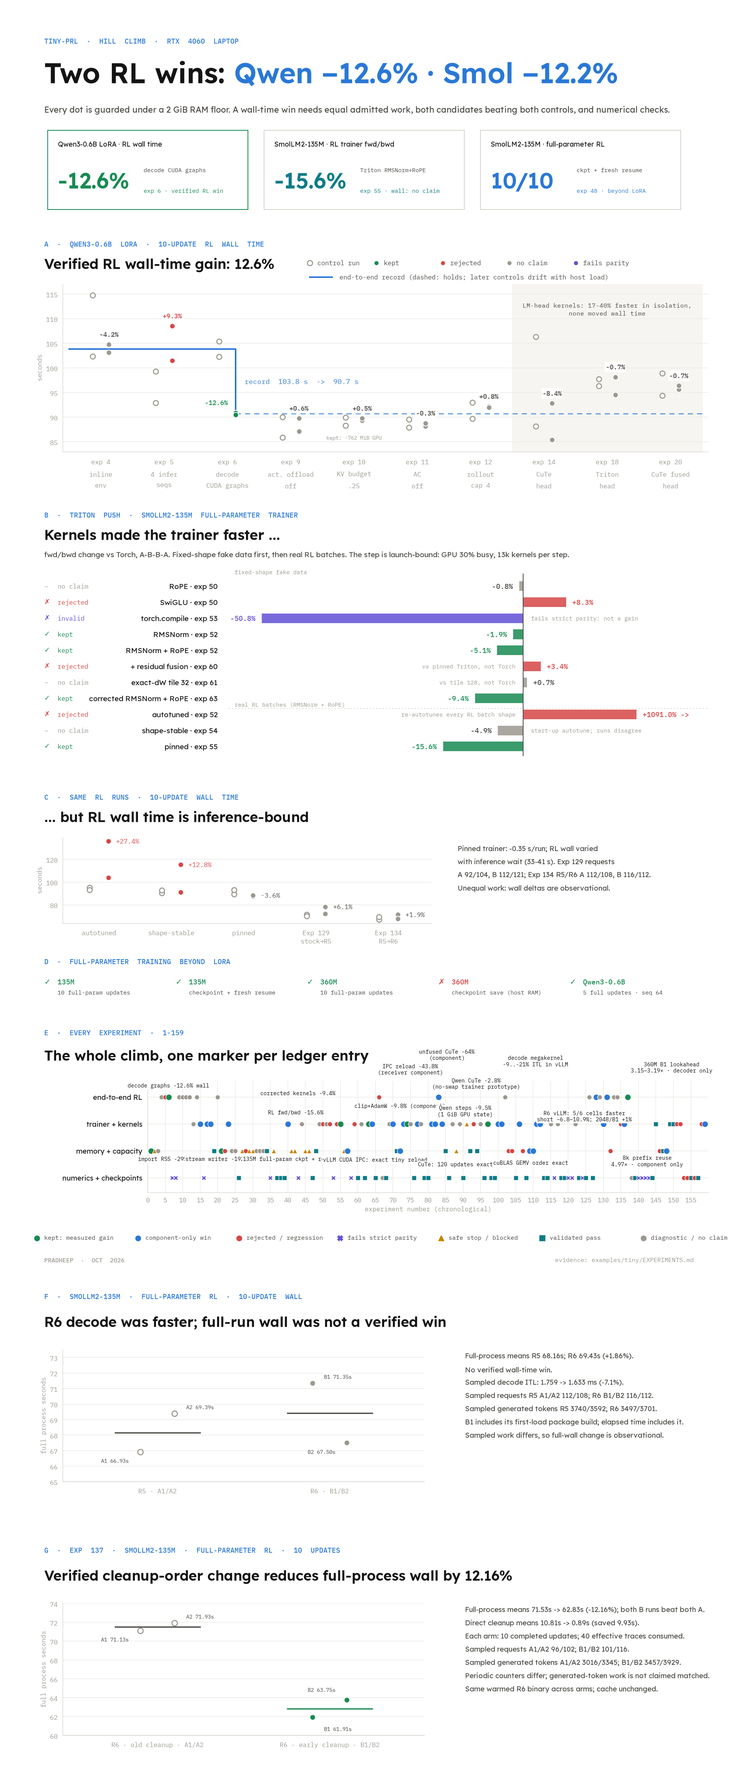
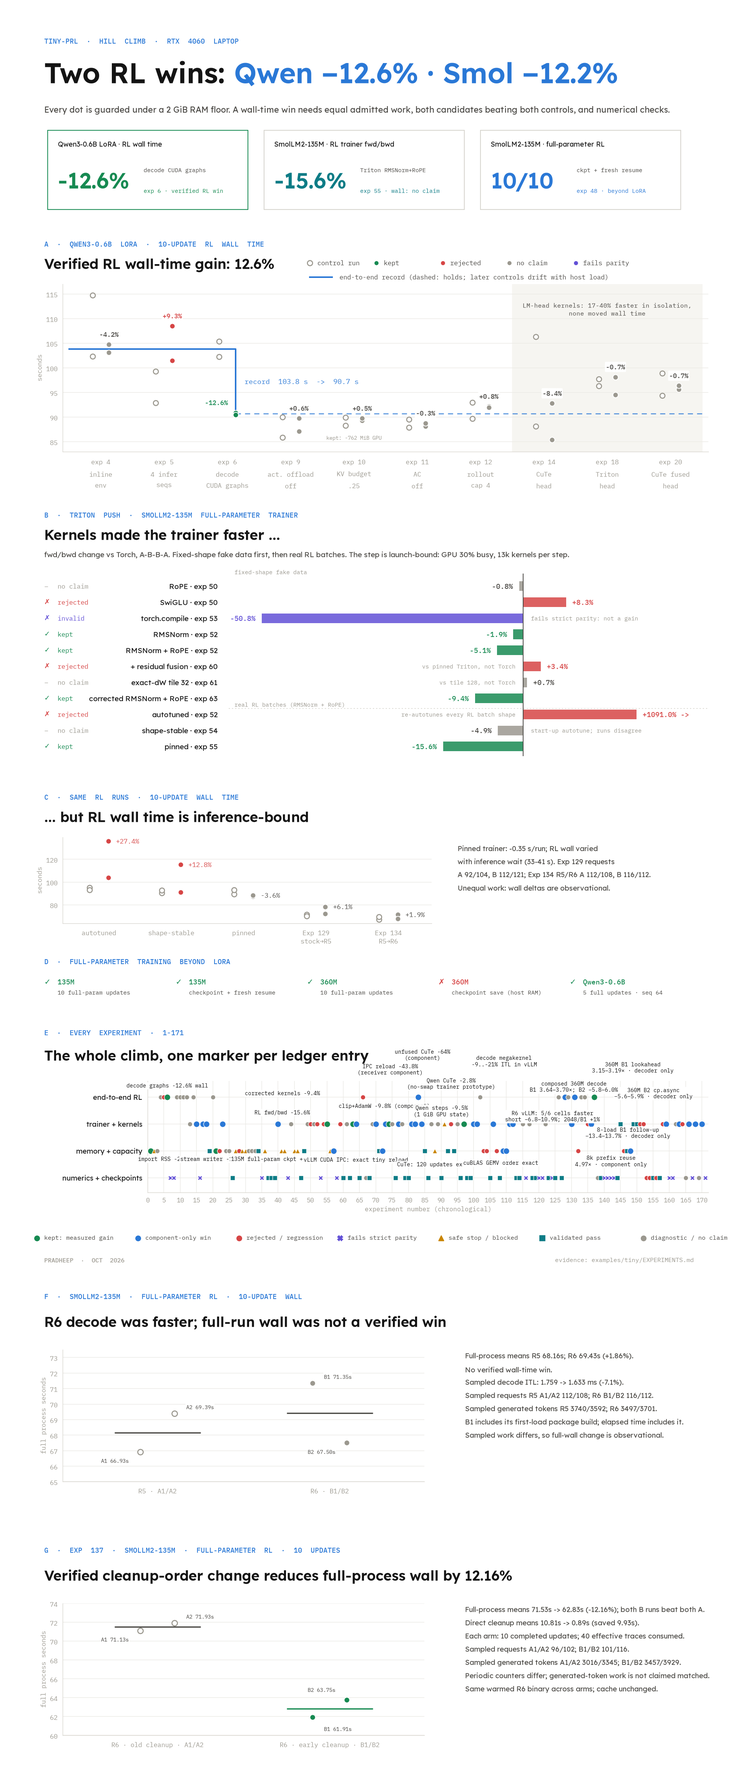
docs: checkpoint decoder gains and 45-case parity

Changed region(s): [[0.2812, 0.5922, 0.9062, 0.6857]]

diff --git a/tools/plot_tiny_hillclimb.py b/tools/plot_tiny_hillclimb.py
@@ -255,6 +255,18 @@ EXPERIMENTS = {
     157: (NUM, "validated"),
     158: (TRAIN, "rejected"),
     159: (TRAIN, "component"),
+    160: (NUM, "parity"),
+    161: (NUM, "parity"),
+    162: (TRAIN, "none"),
+    163: (TRAIN, "component"),
+    164: (TRAIN, "rejected"),
+    165: (NUM, "none"),
+    166: (TRAIN, "component"),
+    167: (NUM, "parity"),
+    168: (TRAIN, "component"),
+    169: (NUM, "none"),
+    170: (TRAIN, "component"),
+    171: (NUM, "parity"),
 }
 # Callout text with (dx, dy) offsets in points, staggered so neighbours do not collide.
 CALLOUTS = {
@@ -276,6 +288,9 @@ CALLOUTS = {
     131: ("R6 vLLM: 5/6 cells faster\nshort −6.8–10.9%; 2048/B1 +1%", (-35, -38)),
     148: ("8k prefix reuse\n4.97× · component only", (-30, -24)),
     159: ("360M B1 lookahead\n3.15–3.19× · decoder only", (-52, 80)),
+    163: ("360M B2 cp.async\n−5.6–5.9% · decoder only", (-40, 40)),
+    166: ("8-load B1 follow-up\n−13.4–13.7% · decoder only", (-95, -22)),
+    170: ("composed 360M decode\nB1 3.64–3.70×; B2 −5.8–6.0%", (-200, 50)),
 }
 
 MILESTONES = [

diff --git a/examples/tiny/EXPERIMENTS.md b/examples/tiny/EXPERIMENTS.md
@@ -1378,3 +1378,76 @@ A direct decoder CUDA-event test uses four seed-17 B1/B2 context-32/128 fixtures
 Telemetry snapshots start at 2280 MHz and reach 2625 MHz; the later B1 blocks retain the gain at the higher clock. This is a measured decoder-component gain against R12, not a vLLM serving or RL wall-time gain, and does not establish that R13 beats stock. The guard returned 0 in 15.07 s with zero job swap, 1401 MiB GPU peak, and minimum available RAM 10,777,522,176 bytes.
 
[1 lines of base64/hex data omitted]
+
+## Experiment 160: corrected PV task mapping reaches 42/46 cases
+
+R14b changes the R12 PV schedule to eight warp groups for long contexts and homogeneous B2/K512. The first R14 implementation left six of B1's 30 PV tasks unwritten when only one task group fit each of 24 CTAs; it produced layer-0 and greedy-token regressions on both B1 long cases. R14b preserves that failed version separately and adds uniform task iterations, with unconditional CTA barriers and complete task ownership. This is a mapping fix, not a relaxed numerical gate.
+
+R14b passes the original 30 held-out and four initial cases, plus 8/12 wider seed-777 cases: 42/46 total. Both B1 long cases now pass. Remaining failures are B1/context255 at post-block layer22 and B2/context511/2048/8000 at layers8/11/22. Greedy IDs match in every case, but the four cases still fail strict internal gates. The wide guard returns numerical code1 after 49.51 s, with no resource stop, zero job swap, 4323 MiB GPU peak, and minimum available RAM 9,797,070,848 bytes. An earlier wrong-ABI harness attempt performed no numerical case and is excluded. No speed or RL claim follows.
+
[1 lines of base64/hex data omitted]
+
+## Experiment 161: native-shaped QK WMMA reaches 43/46 cases
+
+R15b builds on R14b and uses warp-private BF16 WMMA QK only for B1/K256 and homogeneous B2/K512, rounding raw QK to BF16 before scaling. A separate primitive probe matches saved native raw/scaled QK exactly on the two causal captures; fresh Torch profiling identifies native CUTLASS BF16 WMMA with 32-thread blocks. The complete decoder retains all 34 original passes and increases the wider set to 9/12: all B1 cases pass, for 43/46 total. The remaining B2/context511/2048/8000 failures first appear at post-block layers8/11/22; greedy IDs match, while internal gates still fail.
+
[1 lines of base64/hex data omitted]
+
+## Experiment 162: serving traces attribute the R9 regression to GPU work
+
+R5 preserves R4's route/configuration checks and captures one warmed 16-token request per prompt32/128 and B1/B2 shape, separately for stock and R9. Candidate traces contain 15 megakernel launches per request: B1 median kernel durations 16.981/17.096 ms, totaling 254.7/256.4 ms; B2 medians 8.683/8.875 ms, totaling 130.2/133.1 ms. These dominate request annotation spans of 276.6/277.7 ms and 150.7/153.8 ms respectively. The trace supports prioritizing decoder work rather than treating the regression as mainly Python scheduling overhead.
+
+All eight traces and both guards complete with zero job swap. Profiling overhead contaminates these request times: Experiment158 remains the unprofiled serving pilot. The interval without recorded GPU activity is a union-of-intervals visibility metric, not pure CPU cost. Host `cudaGraphLaunch` duration is not device replay time. Hardware performance counters remain restricted; these traces do not establish DRAM bandwidth, scoreboard stalls, or barrier-stall causality. Evidence: `outputs/megakernel-20261025/validation-operator-r1/reports/r5-profile-r1/summary.json` and `decode-baseline-r5/profiles-r5-{stock,candidate}/profile-summary.json`. No new speed or RL-wall-time gain is claimed.
+
+## Experiment 163: SM89 cp.async improves B2 decoder time
+
+R16 builds on R13 and stages B2 projection weights into two warp-private shared-memory tiles with direct `cp.async.ca.shared.global` PTX. The next weight copy overlaps current A-tile/MMA work, preserving K16 accumulation order and BF16 boundaries. B1 is unchanged. The original 34 cases pass and the wider set remains 6/12; a programmatic comparison confirms exactly the same pass set as R13. No numerical gate changed.
+
+Three interleaved ABBA/BAAB blocks with 20 CUDA-event samples per arm measured B2/context32 8.478→7.981 ms (−5.86%) and B2/context128 8.718→8.228 ms (−5.63%), using medians of the six reported upper-median arm statistics. Both candidate arm medians beat both controls in every B2 block. B1 controls are neutral. All four timing fixtures have exact hidden and all 32 K/V layers against native and cross-candidate. The guard completes in 12.33 s with zero swap,1401 MiB GPU peak and minimum available RAM 7,835,811,840 bytes. This is a decoder-component gain, with serving and RL gains unestablished. Evidence: `outputs/megakernel-20261025/r16-direct-bench-r1/results-r1.json`, `validation-operator-r1/reports/r16-direct-bench-r1/`, and `reports/r13-r16-passset-comparison.json`.
+
+## Experiment 164: R13 serving recovers B1 latency but still trails stock
+
+A private in-process R13 pilot preloads the exact validated ABI28 library into the wrapper without changing canonical package files. Same-process worker route, closure/module identity, source/include/library hashes, and nonzero backend decode count are checked. Stock and candidate use the same new harness, three warmups and seven repeats per shape. Request-wall candidate/stock ratios are 1.357/2.178/1.379/2.151 for prompt32/B1,32/B2,128/B1,128/B2. Scheduler-inclusive intertoken medians are 5.895/9.156/6.021/9.367 ms versus stock4.199/3.939/4.204/3.969 ms. These are separate pilot sessions, not ABBA verification.
+
+All28 paired greedy sequences match; exact logprob hashes match in none. Top-five matched-prefix maximum logprob deltas remain 0.2195/0.2498/0.3725/0.3686, and some top-five sets differ. Both guards complete with zero swap and2065 MiB GPU peak. R13 is not accepted as a stock-serving speedup or a probability/quality result. The earlier direct R13/R12 B1 gain is a separate component result. Evidence: `outputs/megakernel-20261025/validation-operator-r1/reports/r13-serving-pilot-r1.json` and `decode-baseline-r13-inproc-pilot/results/{stock,r13}.json`.
+
+## Experiment 165: native vLLM RoPE uses a different rounding boundary
+
+A guarded native-op probe compares the installed vLLM rotary op against four arithmetic formulas on deterministic synthetic BF16 Q/K, batches 1/2 and positions 32/128/255/511/2048, with identical BF16 cos/sin cache values. The explicit HF-style BF16 product-then-add formula differs in 3548/14400 query and1181/4800 key elements. Separate FP32 products/add with final BF16 rounding, and both tested addcmul operand orders, match native exactly. The op receives the same flattened 2D layout used by the serving path.
+
+This establishes an arithmetic difference on synthetic inputs; it does not prove the cause or size of full-serving probability drift. Actual serving-input capture is a separate pending check. No decoder math, reference target, or acceptance gate changes. Evidence: `outputs/megakernel-20261025/decode360-rope-rounding-probe-r1/results/native-vllm-rope.json` and `validation-operator-r1/reports/rope-rounding-probe-r1.json`.
+
+## Experiment 166: eight-load B1 lookahead improves another 13.4–13.7%
+
+R17 changes only R13's four-weight lookahead to eight explicit scalar loads, retaining ordered FP32 RN arithmetic and scalar tails. The include and B2 path remain unchanged. Original 34 cases pass; wider validation remains 6/12 with the identical programmatic pass set. Three interleaved ABBA/BAAB blocks with 20 samples/arm measure B1/context32 5.297→4.569 ms (−13.74%) and B1/context128 5.386→4.662 ms (−13.45%) using medians of six reported upper-median arm statistics. Both candidate arm medians beat both controls in every B1 block. B2 controls are neutral.
+
+All four native/cross-candidate hidden and all 32 K/V comparisons are exact. The guard completes in 12.06 s with zero job swap,1401 MiB GPU peak and minimum available RAM approximately 8.17 GB. This is a direct decoder gain against R13; vLLM and RL gains remain unverified. Evidence: `outputs/megakernel-20261025/r17-direct-bench-r1/results-r1.json`, `validation-operator-r1/reports/r17-direct-bench-r1/`, and `reports/r13-r17-passset-comparison.json`.
+
+## Experiment 167: integrated R18 retains 43/46 numerical passes
+
+R18 combines R15b's attention arithmetic/task fixes with R16's four-load B1 projection path and B2 cp.async double buffer. It preserves all 34 original passes and9/12 wide passes. The wide pass set is programmatically identical to R15b, with no additions/regressions; all B1 cases pass. The three remaining B2 contexts 511/2048/8000 still fail at post-block layers8/11/22 despite matching greedy IDs. Registers are 142/139 per thread for B1/B2 with zero spills. This validates the integration on43/46 cases; component timings from separate branches do not establish R18 speed, serving, or RL gains. R17's eight-load change is excluded. Evidence: `outputs/megakernel-20261025/validation-operator-r1/reports/r18-{heldout30,initial4,wide12}-r1/`, `reports/r15b-r18-passset-comparison.json`, and `decode-360-cuda-r18/provenance.json`.
+
+## Experiment 168: balanced B2 mapping yields a small repeated gain
+
+R19 changes one B2 global-warp expression from R16 to `warp*24+blockIdx.x`, preserving all 192 IDs and per-output arithmetic orders. The QKV100, O/down60 and gate/up160 tile queues span all 24 CTAs instead of 13/8/20. Original fixtures pass 34/34; wider fixtures remain 6/12 with the same programmatic pass set as R16. Two independent direct decoder ABBA/BAAB sessions each use three blocks and 20 samples/arm. B2/context32 reductions are 0.3982% and 0.3914%; context128 reductions are 0.3477% and 0.3422%, using medians of six reported upper-median arm statistics. Both candidate arm medians beat both controls in all six blocks for both B2 shapes. B1 is within approximately 0.03%. All four native/cross hidden and all 32 K/V checks are exact in both sessions. Both guards return 0 with zero swap and 1401 MiB GPU peak. This is a small decoder-component result, with no serving or RL gain established. Evidence: `outputs/megakernel-20261025/r19-direct-bench-r1/results-r{1,2}.json`, `validation-operator-r1/reports/r19-direct-root-summary.json`, and `reports/r16-r19-passset-comparison.json`.
+
+## Experiment 169: real serving RoPE confirms the rounding difference
+
+R2 captures actual layer-0 first-decode inputs/outputs from stock vLLM for B1/B2 contexts 32/128, verifying the native custom-op route, BF16 Q/K/cache, positions and same-process worker identity. The rotary object is shared across layers; R1 stopped after capturing 32 calls. R2 scopes its hooks through the unique layer-0 attention module, preserving R1's failed result. On saved tensors, HF-style intermediate BF16 product rounding differs from native by query/key counts 197/960 and 58/320 (B1/32), 394/1920 and 116/640 (B2/32), 232/960 and 80/320 (B1/128), 464/1920 and 160/640 (B2/128). FP32 products/addition with final BF16 rounding matches every native Q/K element in all four captures. This confirms a RoPE arithmetic-contract difference on real serving inputs; it does not prove the sole cause of whole-model probability drift. No decoder arithmetic, reference target or HF gate changed. Eager execution with compilation disabled is a diagnostic setting, not a speed measurement. R2's guard returns 0 in 10.86 s with zero swap, 2063 MiB GPU peak and minimum available RAM 5,785,251,840 bytes. Evidence: `outputs/megakernel-20261025/decode360-serving-rope-r2/results-r2/serving_rope.json`, saved captures and `guard/result.json`.
+
+## Experiment 170: combined R20 speed is measured against R15b
+
+R20 combines R15b attention fixes with eight-load B1 projections, B2 async weight tiles and the balanced B2 global-warp mapping. The original 34 cases pass, and wider validation remains 9/12 with the identical R18 pass set (43/46 total). No arithmetic contract or numerical gate changes. Three interleaved direct decoder ABBA/BAAB blocks use three warmups and 20 samples/arm, with KV restored before every timed call. Medians of six reported upper-median arm statistics are:
+
+| Case | R15b | R20 | Latency reduction |
+| --- | ---: | ---: | ---: |
+| B1/context32 | 16.876 ms | 4.566 ms | 72.94% |
+| B1/context128 | 16.962 ms | 4.657 ms | 72.54% |
+| B2/context32 | 8.463 ms | 7.957 ms | 5.99% |
+| B2/context128 | 8.705 ms | 8.200 ms | 5.80% |
+
+Both R20 placements beat both R15b placements in every block for all four cases. Every native and cross-candidate final hidden plus all 32 layers of K/V is exact (0 ULP). This directly measures the composition: B1 is 3.64–3.70× faster than R15b, with B2 latency down 5.8–6.0%. These are decoder-only component results; serving, probability accuracy and RL-wall-time gains remain unverified for R20. Registers are 148/139 per thread for B1/B2, with zero spills. Guard code0 completes in 14.67 s with zero job swap, 1401 MiB GPU peak and minimum available RAM approximately 5.34 GB. Evidence: `outputs/megakernel-20261025/r20-direct-bench-r1/results-r1.json`, `validation-operator-r1/reports/r20-direct-bench-r1/summary.json`, `reports/r20-validation-summary-r1.json`, and `reports/r18-r20-passset-comparison.json`. Source and compact results are archived in `prime-kernels/research/smollm2_360m_decode/experiments/r20-composed/`.
+
+## Experiment 171: R21 PV order reaches 45/46 fixtures
+
+R21 preserves R20 except the B2 PV schedule for batch maximum sequence above 2048 or homogeneous K512. It uses y8/chunk8, four round-robin accumulators, zero-start ordered FP32 RN local summation and a halves tree over all eight y partials. The schedule matches all six selected native PV captures in the 31,104 schedule/capture R3 probe, including the three current causal failures and prior controls. Full decoder validation passes all 34 original cases and 11/12 wide cases: 45/46 total, adding B2 contexts 511/2048 without regressions. Only B2/context8000 remains, with matching greedy ID and first post-block mismatch at layer 10 while K/V is exact there; first KV mismatch is layer 11. A later layer 15 capture does not identify the cause at layer 10. This is partial correctness progress, with no R21 speed, serving or RL claim. Gates and dtype boundaries remain unchanged. The wide guard completes in 47.68 s with zero job swap, 4323 MiB GPU peak and minimum available RAM approximately 4.86 GB. Evidence: `outputs/megakernel-20261025/validation-operator-r1/reports/r21-validation-summary-r1.json`, `reports/r20-r21-passset-comparison.json`, `decode360-pv-causal-probe-r3/results-r1/gpu-probe.json` and the separate canonical archive `prime-kernels/research/smollm2_360m_decode/experiments/r21-pv-order/`.

diff --git a/examples/tiny/HANDOFF.md b/examples/tiny/HANDOFF.md
@@ -5,7 +5,7 @@ Checkpoint: 2026-10-27. This note captures the current state of the IcePop integ
 ## Repository and environment boundaries
 
 - Prime-RL working repository: `/home/pradheep/tiny-prl/prime-rl`. The published IcePop implementation is commit `c4c7722ec`; the later documentation checkpoint is `b0214cf8f`. Local `upstream/main` is `40babc0833dda27f6c23ab53547dd527e465ae38`. The origin is the personal fork; upstream is PrimeIntellect.
-- Prime-Kernels checkout: `/home/pradheep/tiny-prl/prime-kernels`. Local `main`, `origin/main`, and the Prime-RL submodule are `72bb8c9`. This revision retains the 360M R9 research decoder and separately archives the measured R13 lookahead experiment; GitHub Actions workflows remain removed and the active production kernel remains R6.
+- Prime-Kernels checkout: `/home/pradheep/tiny-prl/prime-kernels`. Local `main`, `origin/main`, and the Prime-RL submodule are `bea15be`. This revision retains the 360M R9 research decoder and separately archives the R13/R16/R17/R19/R20 performance experiments and R15b/R21 accuracy branches; GitHub Actions workflows remain removed and the active production kernel remains R6.
 - The main worktree now contains the opt-in IcePop integration and related compatibility changes. Concurrent research edits include `examples/tiny/EXPERIMENTS.md`, `examples/tiny/hillclimb.png`, and `tools/plot_tiny_hillclimb.py`; preserve them. The primary progress image remains `examples/tiny/hillclimb.png`.
 - Active dependency submodules are verifiers `1e80567bc3e80de16a73f0fa5e0ee93b15d1cdca` and renderers `70c8204bbce9c0afa7de746c1e249a717980f8dc`. The pinned `/home/pradheep/.venv` remains read-only. The offline lock check did not complete because the cached vLLM 0.31 wheel URL was unavailable; no lockfile edit, download, or environment sync was made. Model dtype settings remain unchanged.
 
@@ -29,9 +29,23 @@ Follow-up scope checks qualify that result. A separate seed-777 wide set passed 
 
 Private follow-up R12 preserves all 30 original held-out cases and all four initial cases, but passes only 6/12 seed-777 wide cases. Its long-row softmax change is therefore not sufficient for wider acceptance. All six failing wide cases retain matching greedy IDs; the per-layer gates still fail. Evidence: `outputs/megakernel-20261025/validation-operator-r1/reports/r12-heldout30/`, `r12-initial4/`, and `r12-wide12/`. The initial R4 serving benchmark was stopped by the 2 GiB system-RAM floor before completion, so it provides no paired performance result. After RAM recovered, both same-harness R4 stock/candidate serving runs completed safely; R9 was slower at all four prompt/batch shapes (Experiment 158). Cross-arm greedy sequences match in 28/28 trials, but logprob hashes differ in all trials and probability acceptance remains unestablished; profiling is still pending. Independent PV reduction-tree and QK primitive probes remain diagnostic work; production stays on R6.
 
-R13 is a separate R12-based weight-load-lookahead experiment. It retains 34/34 original passes and the same wider 6/12 result. Direct decoder-only interleaved CUDA-event timing measured B1/context32 16.832 → 5.282 ms and B1/context128 16.922 → 5.373 ms (3.15–3.19×), with exact hidden and all 32 layers of KV for native and cross-candidate comparisons on the four timing fixtures; B2 is neutral. It is a component result, not a vLLM or RL gain (Experiment 159). The experimental source is archived separately in `prime-kernels/research/smollm2_360m_decode/experiments/r13-weight-lookahead/`. A later R14 PV variant exposed incomplete B1 task coverage at long context; that failed version is retained privately, with an R14b loop fix and R15b QK-WMMA follow-up queued for validation. Production remains unchanged.
+R13 is a separate R12-based weight-load-lookahead experiment. It retains 34/34 original passes and the same wider 6/12 result. Direct decoder-only interleaved CUDA-event timing measured B1/context32 16.832 → 5.282 ms and B1/context128 16.922 → 5.373 ms (3.15–3.19×), with exact hidden and all 32 layers of KV for native and cross-candidate comparisons on the four timing fixtures; B2 is neutral. It is a component result, not a vLLM or RL gain (Experiment 159). The experimental source is archived separately in `prime-kernels/research/smollm2_360m_decode/experiments/r13-weight-lookahead/`. A later R14 PV variant exposed incomplete B1 task coverage at long context; that failed version is retained privately, with the R14b loop fix passing 42/46 and the R15b QK-WMMA follow-up passing 43/46. All B1 cases pass on R15b; B2 contexts511/2048/8000 still fail at post-block layers8/11/22 despite matching greedy IDs. The R5 serving traces attribute the R9 regression mainly to GPU megakernel duration (B1 approximately17 ms, B2 approximately8.8 ms), with limited unrecorded-device intervals; they do not identify hardware stall causes. See Experiments160–162. Production remains unchanged.
 
 R8 remains compact history: it passed the initial four and 29/30 held-out cases; its sole failure was `seed17-b1-ctx16`, with a one-ULP PV difference at causal layer 9. R7 passed 24/30, R6 passed 22/30, and R4 passed 20/30. Evidence for R9: initial four `outputs/megakernel-20261025/decode-360-validation-r10/results-r4-r9/`; full held-out `block-360-heldout-r16/`; build provenance `decode-360-cuda-r9/provenance.json`. The archive `validation-summary.json` retains R8 and earlier hashes and results.
+
+## Current experiment queue
+
+Experiments 160–167 record the latest source/guard evidence. R16 B2 async weight copies reduce direct decoder latency 5.6–5.9% versus R13. R17 eight-load B1 lookahead reduces direct decoder latency another 13.4–13.7% versus R13; its original 34 cases pass but the wider set remains 6/12. These are component results. The private R13 serving pilot still trails stock (request-wall ratios 1.36–1.38 at B1 and approximately 2.15–2.18 at B2); all 28 greedy sequences match but logprob hashes differ. No new RL wall-time claim is justified.
+
+R18 integrates R15b attention fixes with R16 performance changes and preserves the R15b 43/46 pass set. The remaining three B2 failures are all isolated to one PV output element at one BF16 ULP at the causal layer; actual Q/K/V, QK, scaled scores and eager probabilities are exact. Captures are in `outputs/megakernel-20261025/decode-360-r15b-diagnostic-r1/results-r1/`. Next inspect the new native PV reduction probe against these captures, including prior controls, before changing dispatch again.
+
+R19 changes only B2 global warp task mapping from R16; original 34 plus wider6/12 pass with the identical R16 pass set. Its first direct ABBA session shows only 0.35–0.40% B2 latency reduction and neutral B1, with exact native/cross hidden and all 32 KV checks. A separate second session reproduces B2 reductions of 0.3914%/0.3422%, with both candidate arms beating both controls in all six blocks per B2 shape. The root combined-session report is `validation-operator-r1/reports/r19-direct-root-summary.json`. Raw outputs: `r19-direct-bench-r1/results-r1.json`; root guard is `validation-operator-r1/reports/r19-direct-bench-r1/guard/`.
+
+The native RoPE synthetic probe shows HF-style intermediate BF16 product rounding differs from vLLM's final BF16 rounding. This is not yet proof of actual-serving probability drift. The prepared actual-serving capture stopped at a diagnostic cardinality check because vLLM shares the rotary module across layers, producing 32 captures. Preserve that failed run under `decode360-serving-rope-r1/`; R2 now identifies the layer 0 attention call before recording the shared rotary module and completes four real-serving captures. FP32 products/addition followed by final BF16 rounding exactly match native Q/K in all four; HF-style intermediate BF16 rounding differs. This is not a full-model probability acceptance result. Its first guard returned code1 without a resource stop. Do not change kernel arithmetic or numerical gates based on this partial observation.
+
+Luna agents reported a usage cap during this checkpoint and resumed after reset. Root ran only the already-prepared guarded R19 timing and actual-serving diagnostic. New coding remains assigned to Luna: serving-capture R2, latest-capture PV primitive replay, and graph review. Verify agent and GPU process state before continuing; the validation operator agent is now reactivated and is the sole GPU operator. The pinned venv remains read-only. Pending tracked backend/package experiments are intentionally uncommitted while broad numerical and serving gates remain incomplete.
+
+R20's composed-kernel ABBA is now verified: relative to R15b, B1 decoder latency is3.64–3.70× faster and B2 is5.8–6.0% lower on the four timing fixtures; native and cross hidden/KV checks are exact. R20 retains 43/46 cases. The latest six-capture PV primitive sweep completed 31,104 schedule/capture comparisons with all six fresh native CUDA replays exact and 90 schedules matching every capture. R21 uses one native-geometry-compatible family (y8/chunk8/four round-robin accumulators, serial local fold, halves cross-y fold), preserving all R20 performance changes and HF gates. R21 source/library hashes and exact commands are in `outputs/megakernel-20261025/validation-operator-r1/queue-r21-r1.json`; full 46 validation now passes 45/46 (original 34 plus wide 11), adding B2 contexts 511/2048 with no regressions; only B2/context8000 fails first at post-block layer 10/KV11. Do not claim full acceptance. An all-layer PV native corpus/replay is being prepared to disambiguate reduction-order ties across that remaining case. The read-only RL audit proposes a matched-work ABBA of two static alphabet-sort workers; no such RL config/run has been prepared yet (`rl-walltime-opportunity-r1.md`).
 
 ## KV-cache offload
 
